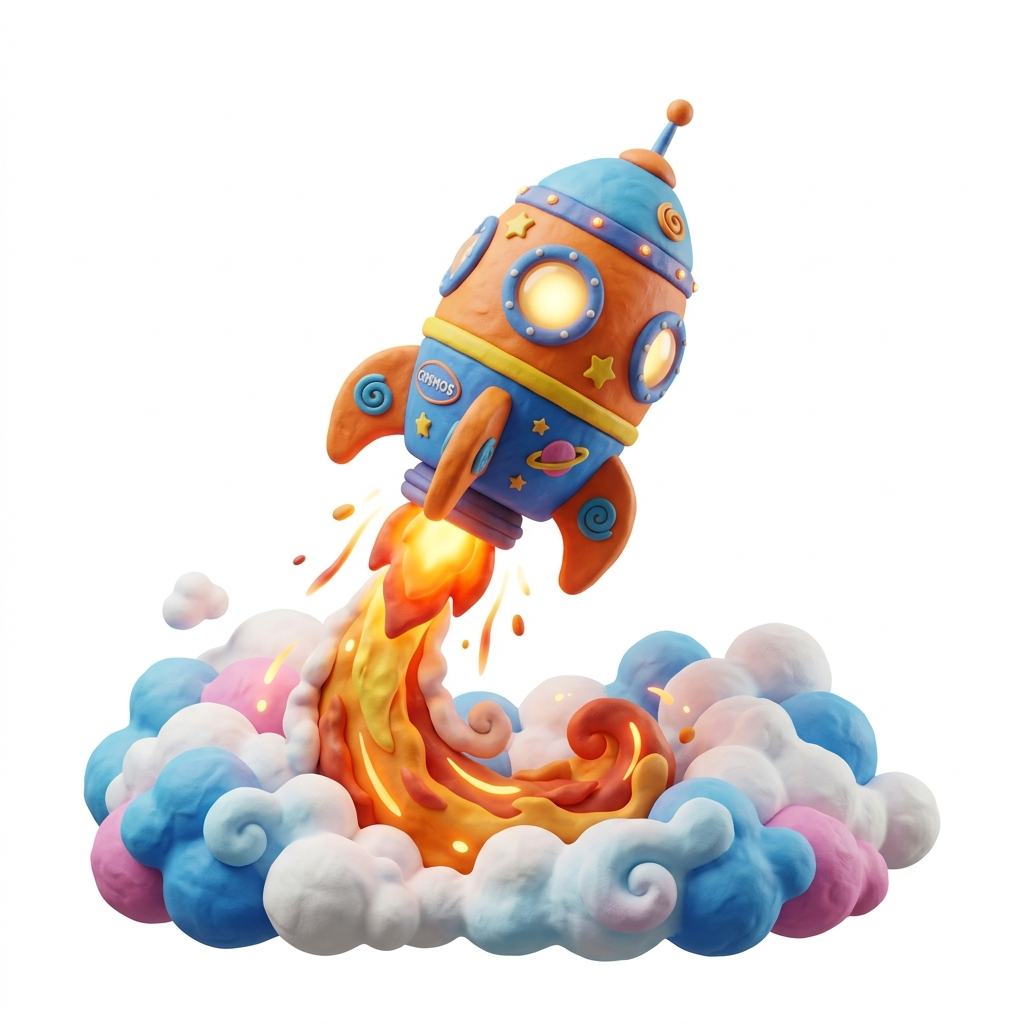
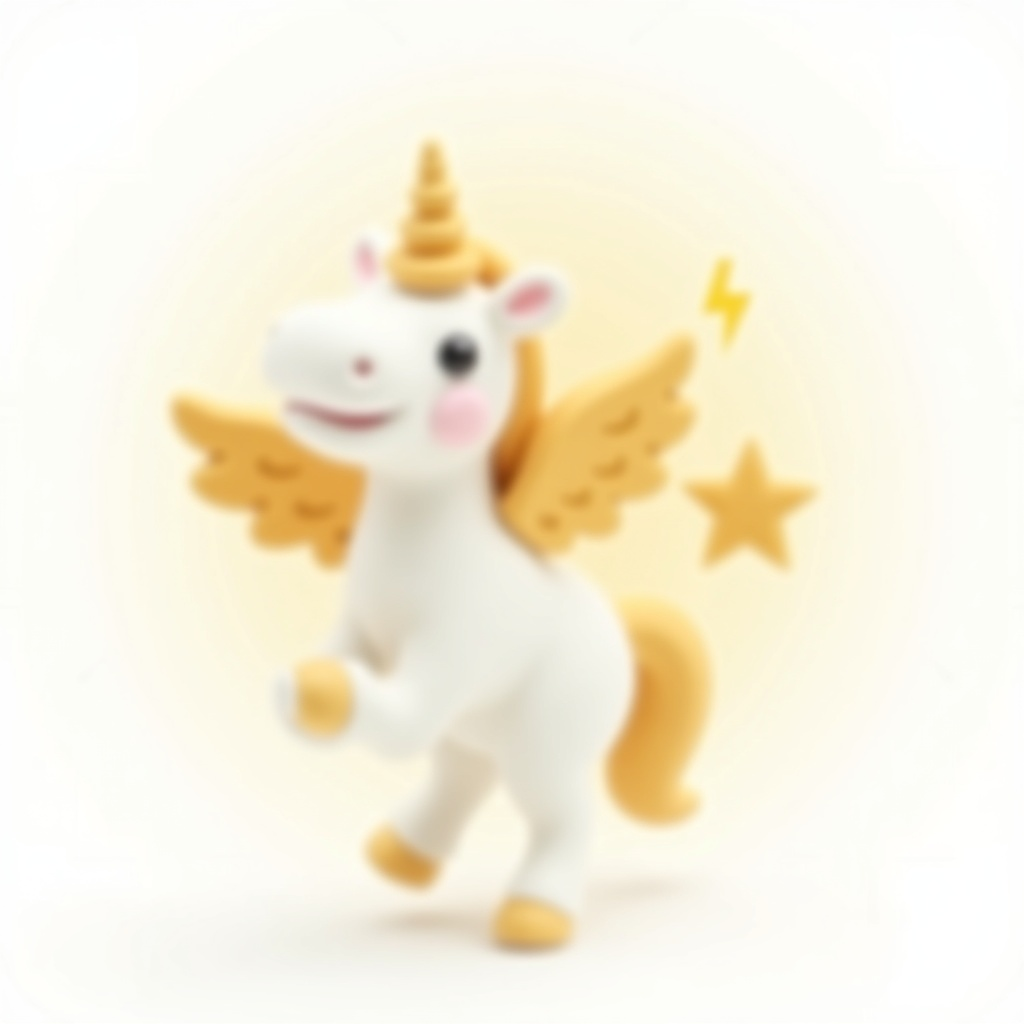
fix: images distinctes Temple/Mythologie + code 7194 donne des cristaux
- temple.png et mythology.png etaient identiques (copie de space.png) -> 2
  illustrations distinctes (temple or/violet, pegase mythologie).
- Code triche 7194 : ajoute crystals=99999 + maxCrystals (monnaie du theme
  secret) -> acces au Sanctuaire / dragon. Restaure a la desactivation.

diff --git a/src/context/AppContext.tsx b/src/context/AppContext.tsx
@@ -43,6 +43,8 @@ export interface UserProfile {
   isCheatEnabled?: boolean;
   savedCoins?: number;
   savedDiamonds?: number;
+  savedCrystals?: number;
+  savedMaxCrystals?: number;
 }
 
 // Résumé d'un compte sauvegardé sur l'appareil (pour l'écran de connexion)
@@ -902,7 +904,9 @@ export const AppProvider: React.FC<{ children: React.ReactNode }> = ({ children 
           ...prev,
           isCheatEnabled: false,
           coins: prev.savedCoins ?? prev.coins,
-          diamonds: prev.savedDiamonds ?? prev.diamonds
+          diamonds: prev.savedDiamonds ?? prev.diamonds,
+          crystals: prev.savedCrystals ?? prev.crystals,
+          maxCrystals: prev.savedMaxCrystals ?? prev.maxCrystals
         };
       } else {
         // Activer le cheat et sauvegarder les valeurs actuelles
@@ -911,8 +915,13 @@ export const AppProvider: React.FC<{ children: React.ReactNode }> = ({ children 
           isCheatEnabled: true,
           savedCoins: prev.coins,
           savedDiamonds: prev.diamonds,
+          savedCrystals: prev.crystals,
+          savedMaxCrystals: prev.maxCrystals,
           coins: 99999,
-          diamonds: 99999
+          diamonds: 99999,
+          // Cristaux = monnaie du thème secret (accès au Sanctuaire / dragon)
+          crystals: 99999,
+          maxCrystals: Math.max(prev.maxCrystals || 0, 99999)
         };
       }
     });